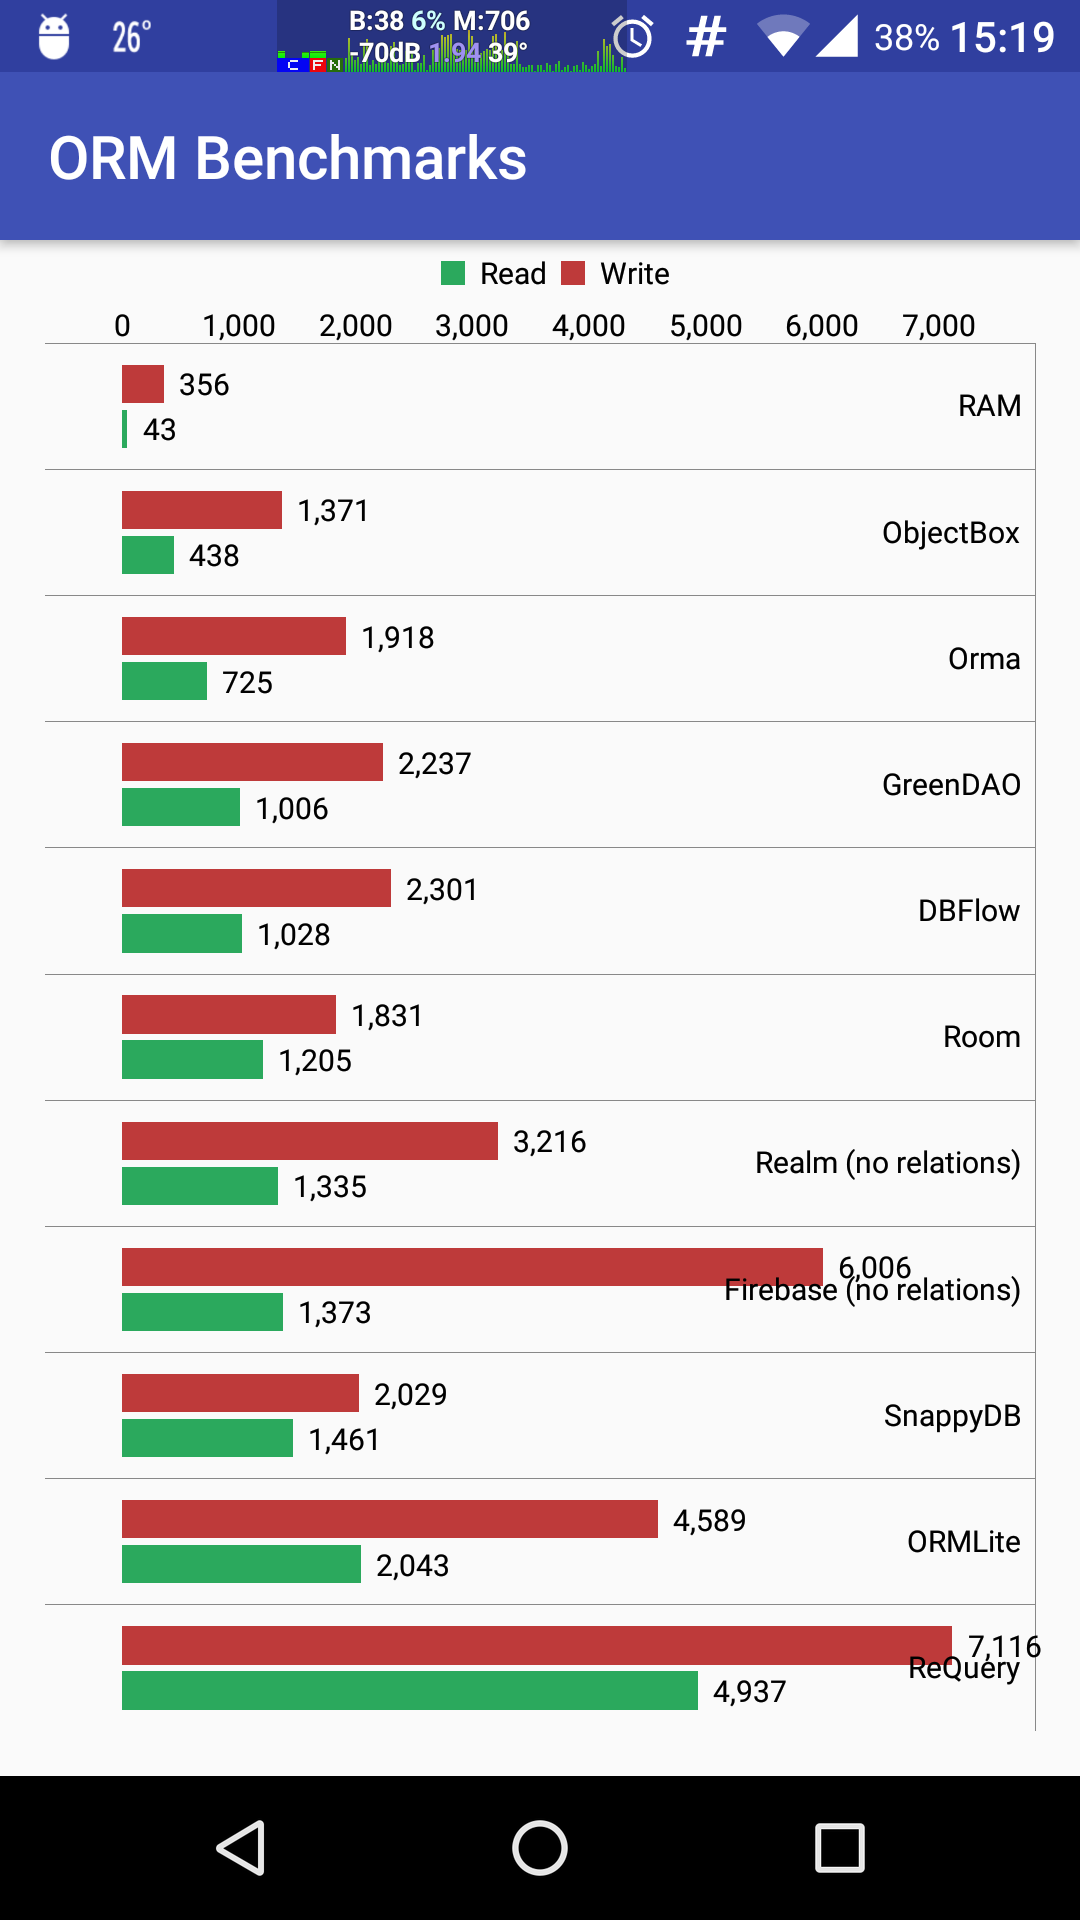
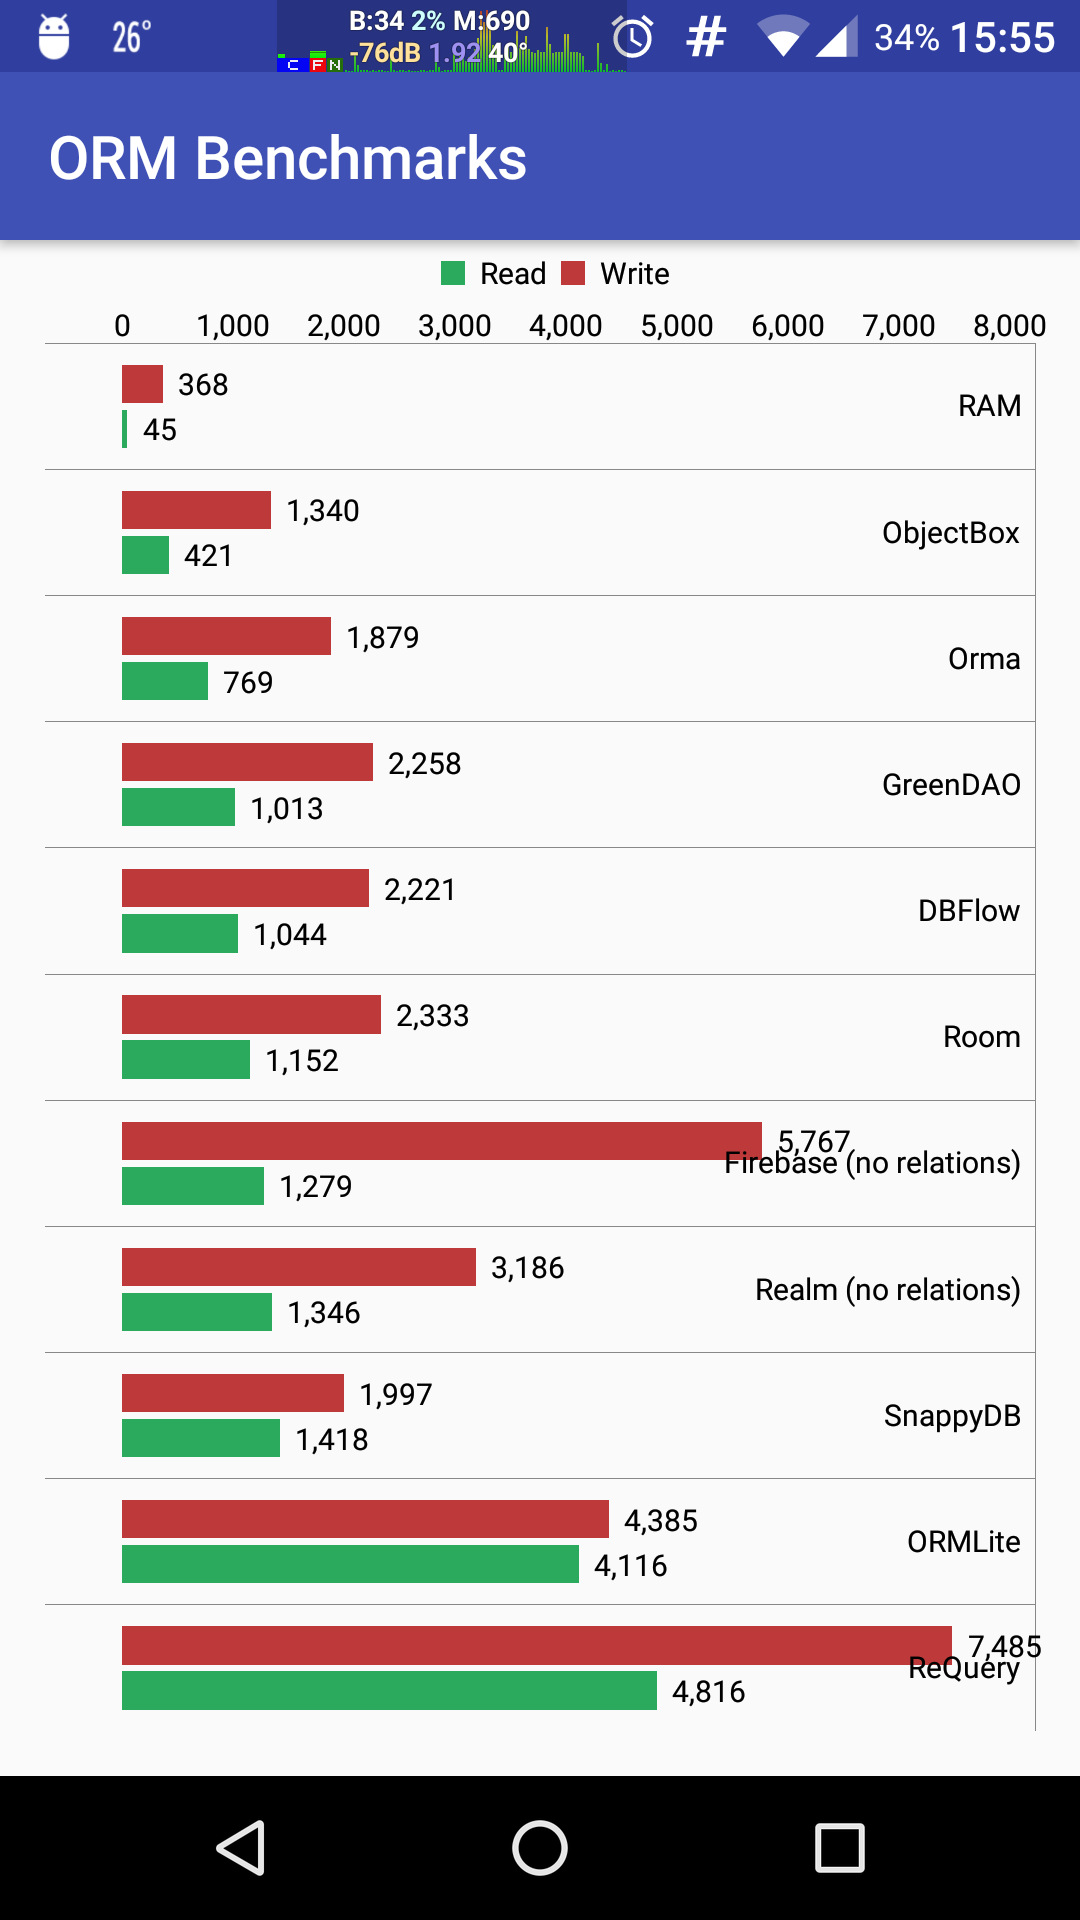
proper transactions

diff --git a/app/src/main/java/ds/dbtests/MainActivity.kt b/app/src/main/java/ds/dbtests/MainActivity.kt
@@ -1,6 +1,7 @@
 package ds.dbtests
 
 import android.arch.persistence.room.Room
+import android.arch.persistence.room.RoomDatabase
 import android.content.Intent
 import android.os.Bundle
 import android.support.v7.app.AppCompatActivity
@@ -509,10 +510,7 @@ class MainActivity : AppCompatActivity() {
         println("thread: ${Thread.currentThread().id}")
     }
 
-    private fun roomWriteTest() {
-
-        val users = mutableListOf<UserRoom>()
-        val orders = mutableListOf<OrderRoom>()
+    private fun roomWriteTest() = room.run {
 
         for (i in 0..ITERATIONS) {
             val u: UserRoom = UserRoom()
@@ -524,34 +522,39 @@ class MainActivity : AppCompatActivity() {
             u.password = "password123"
             u.phone = "555-123-4567"
             u.sex = "male"
-            users.add(u)
-        }
 
-        val userIds = room.userDao().insert(users)
+            val id = userDao().insert(u)
+            //println("user id=$id")
 
-        for (id in userIds) {
             for (k in 0..ORDERS) {
                 val o = OrderRoom()
-                o.title = "some item"
+                o.title = "${u.name}'s item"
                 o.price = 99.95
                 o.count = k % 2 + 1
                 o.created = Date()
                 o.expiration = Date(System.currentTimeMillis() + 1000 * 60)
                 o.description = DESCRIPTION
                 o.userId = id
-                orders += o
+                orderDao().insert(o)
             }
         }
-        room.orderDao().insert(orders)
+
     }
 
-    private fun roomReadTest() {
-        with(room) {
-            val users = userDao().fetchAll()
-            for (u in users) {
-                orderDao().fetchOrders(u.id)
-            }
+    private fun roomReadTest() = room.run {
+        val users = userDao().fetchAll()
+        //println("room users ${users.size}")
+        for (u in users) {
+            val orders = orderDao().fetchOrders(u.id)
+            //println("room orders ${orders.size}")
         }
+    }
+
+    private inline fun <T : RoomDatabase> T.run(block: T.() -> Unit) {
+        beginTransaction()
+        block(this)
+        setTransactionSuccessful()
+        endTransaction()
     }
 
 
